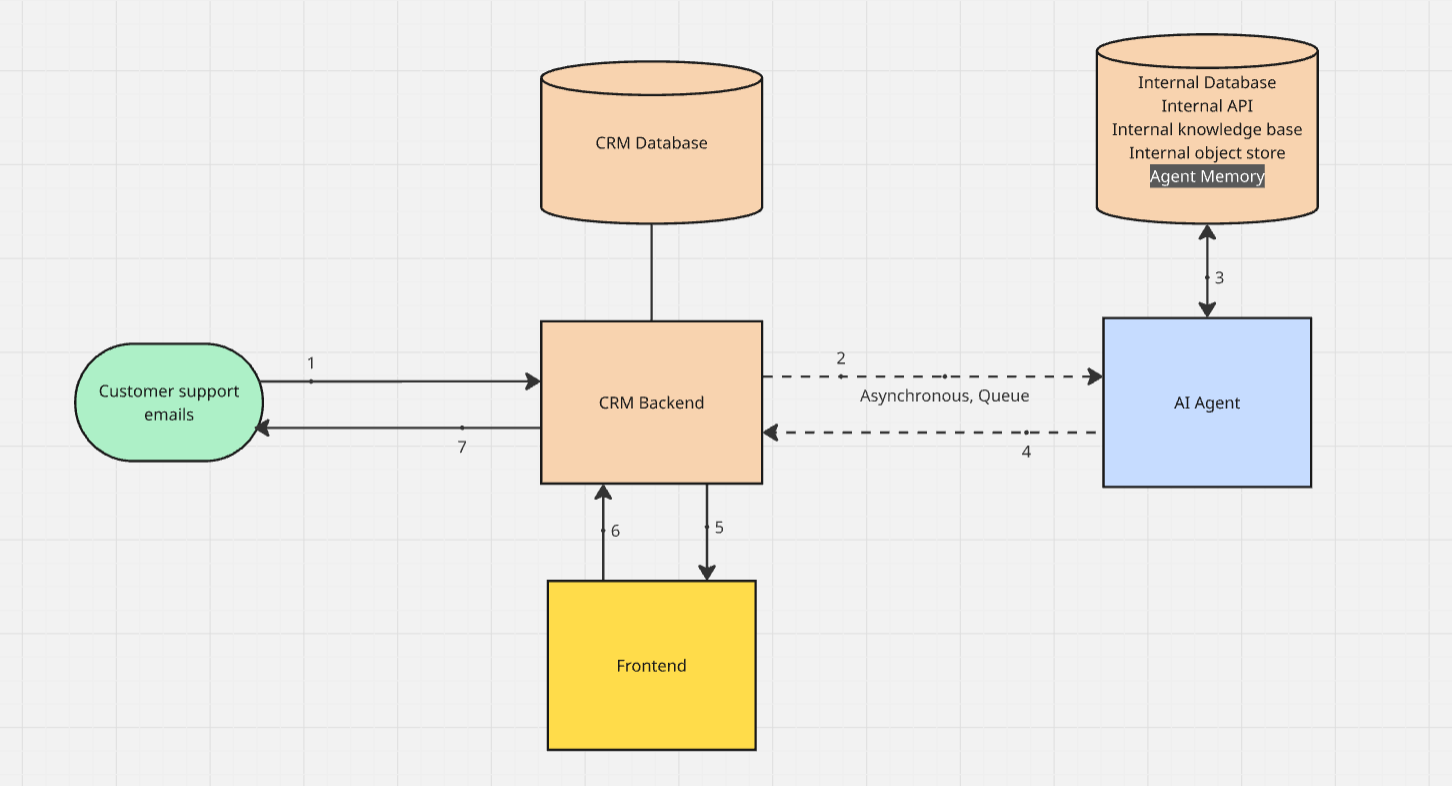
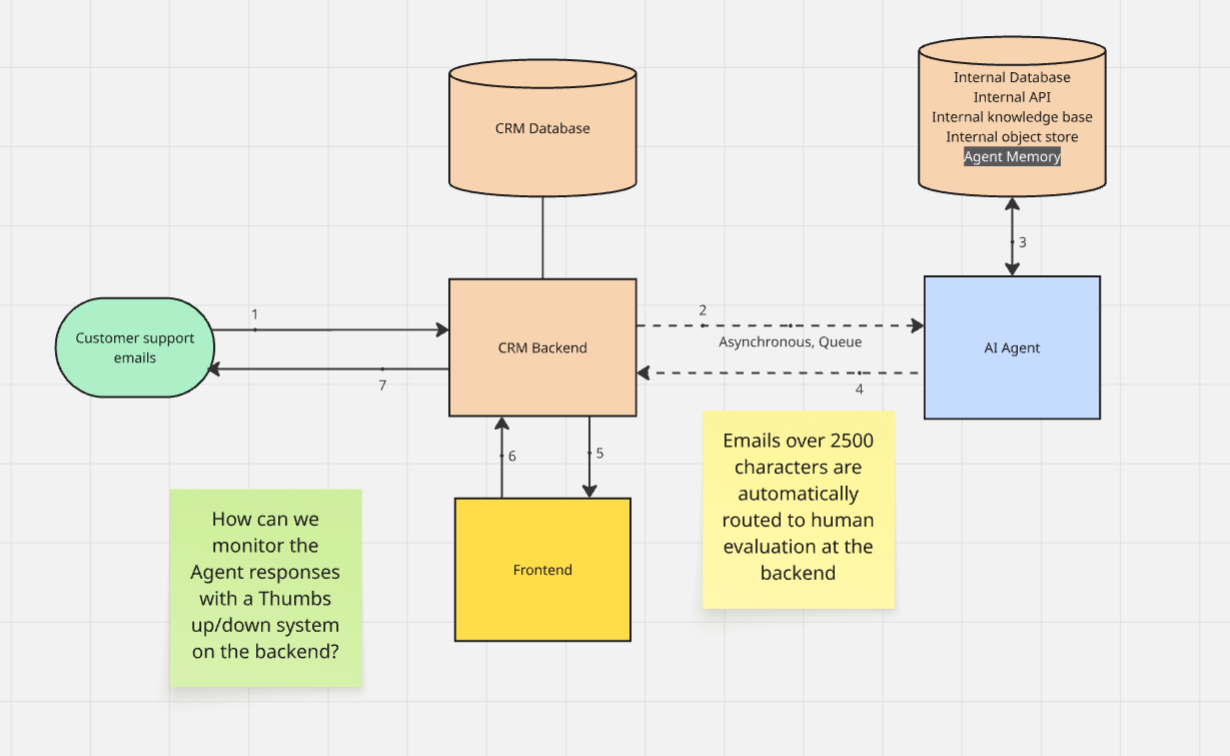
Updated documentation: Workflow, secutity, observability, tech frameworks

Changed region(s): [[0.0309, 0.0304, 0.9268, 0.9735], [0.1236, 0.6389, 0.3089, 0.9127]]

diff --git a/agent/app/agent_entrypoint.py b/agent/app/agent_entrypoint.py
@@ -175,7 +175,7 @@ if __name__ == "__main__":
 
     num = 4000
 
-    eval_output = invoke_agent(num, "Michael", num, product_availability_email, job_id)
+    eval_output = invoke_agent_langfuse(num, "Michael", num, product_availability_email, job_id)
 
     print('==========================================')
     print(eval_output)

diff --git a/README.md b/README.md
@@ -1,34 +1,119 @@
 # **CRM-Mail-Agent**
-A fullstack agent system for an athletic footwear Ecommerce business that responds to emails and takes appropriate actions with human-in-the-loop and agent memory and a robust agent evaluation framework. Uses Langfuse for monitoring.
+## Introduction
+A fullstack agent system for an athletic footwear Ecommerce business that responds to emails and takes appropriate actions with *human-in-the-loop and agent memory* and a **robust agent evaluation framework** (details in Agent evaluation framwork.md). 
+
+The human staff member accesses the front-end and reviews the agent's repliy & actions while also providing the context (observations) the agent has gathered that justifies its response/actions (such as the observed data in the database). The human approves or edits the actions, and the system updates the agent's memory after approval. Langfuse is used for monitoring.
 
 - Fully integrated memory system with context compression that can respond to emails in context while reducing token cost
 - Answer product inquiries, recommend products, check stocks and incoming deliveries
 - Respond to late delivery complaints, check delivery histories, credit fee refunds, provide coupons for retention
-- HITL for all actions and responses, agent runs asynchronously in real-time
+- HITL for all actions and responses, agent runs asynchronously in real-time through a task queue
 - Data authorisation at the app level so no breach of data when responding to client
 
-## System diagram
+## System diagram (high level)
 ![System diagram](images/overallSystem.png "Optional title")
 
 1. Customer sends email to Customer Support
 2. CRM receives email, sends event to Agent
 3. Agent receives event, goes through entire Agent workflow involving data collection from internal systems
 4. Agent prepares response and sends it to CRM
-5. CRM displays email with a list of actions taken and contextual data gathered from internal systems to internal staff
-6. Staff reviews email draft, approves email
-7. CRM sends AI prepared email response to client
+5. CRM front-end displays **email with a list of actions to take and contextual data gathered from internal systems** to internal staff
+6. Staff reviews email draft and agent's actions, makes edits (optional), approves email and actions 
+7. CRM sends AI prepared email response to client and takes actions
 
 ## Agent memory system
 ![System diagram](images/memory.png "Optional title")
 
-This diagram shows how the agent's memory is updated and accessed at each stage of the email conversation between Customer service and the Customer. The memory stores summaries of emails so as to reduce LLM token input and save cost when memory is used.
+This diagram shows how the agent's memory is updated and accessed at each stage of the email conversation between Customer service and the Customer. The memory stores summaries of emails so as to reduce token ingestion/output and save on cost when memory is used.
 
 ## Agent workflow diagram
 ![System diagram](images/agentGraph.png "Optional title")
 
-## Python frameworks
-![System diagram](images/pythonLibraries.png "Optional title")
+### First workflow:
+1. Obtain conversation history from memory 
+2. Classify email by topic and urgency
+3. If multiple requests, urgent, or no reply needed route to "other" then "human escalation"
 
-### To do
-Database pooling https://magicstack.github.io/asyncpg/current/usage.html#connection-pools
+From the web application that customer use to send requests to the customer service backend, customers should only include 1 request per support case. Thus emails with multiple requests are edge cases and will be few in number - while an agent could handle multiple requests with multi-agent system this introduces a vast amount of complexity that will be difficult to evaluate
 
+### Product availability inquiry or product recommendation request:
+1. Create a SQL query based on the content of the email to filter results (size, color, brand, etc...), if suitable
+2. Query database. Match returned data to customer's request and identify product_ids
+3. Check stocks of these products, if empty, check incoming deliveries
+4. Write response to customer that these products are the closest match to what they are looking for and what their availability is (or when they will be available if no stocks)
+
+### Late delivery complaint:
+1. Identify the tracking number the customer is referring to, route to response generation requesting for number to be provided if not available
+2. Check each of the tracking numbers are open deliveries under the customer's id, if none found found, route to response generation saying that there is no such open delivery with the tracking number(s) provided
+3. If matched, calculate the numbers of days late/not late, credit devliery fee refunds based on number of days late. If delivery is late and there was a late delivery in the last 60 days of this customer, provide coupon for expedited delivery for customer to use at the next order.
+4. Write response to customer detailing the status of each open delivery's tracking number and the actions taken for that delivery
+
+Final step:
+Send Case ID, email response, email response summary, context, and actions to backend for Human-in-the-loop evaluation.
+
+## Security
+First workflow:
+- Unclear/urgent/mixed-request (edge cases)/no-reply-needed emails are routed to human for evaluation (refer to prompt in email_agent.py)
+- Emails over 2500 charaters are not sent to the agent and handled manually at the backend. A customer might send an email with hundreds of identifiers or descriptions to extract data or cause system overload
+- Emails with repeated >3 request within the same case (same case_id) are routed to human evaluation because >3 similar requests in an email conversation means the agent is not effectively handling the customer service request
+
+Product recummendation/availability workflow:
+- System returns a maximum of 500 database results (adjustable) in case a customer is attempting a data leak attack to obtain inventory of all items (e,g,: "I want to find out about the available stocks of all your shoes"). Repeated requests are flagged by the agent
+
+Late delivery complaint workflow:
+- Database read results are filtered on the customer's ID at the application level so LLM will never see data that does not belong to the client attached to the case it is handling to prevent data leakage or customer attacks
+- 
+
+## Observability and diagnosing
+![System diagram](images/Langfuse.png "Optional title")
+LangFuse has built-in support for the LangChain ecosystem so integration is easy as pie. Each LangGraph call is monitored by Langfuse at the Trace/Session/User level and can be used for further analysis.
+Trace data:
+- Nodes traversed in graph 
+- State input and output
+- Token count
+- Attempt number
+- Overall latency
+- Timestamp
+- Cost/tokens/latency/prompt of each API call
+
+Does not trace:
+- Terminal output at each Run of LangGraph
+
+Identifier data captured at each trace:
+- Agent job ID
+- Case ID
+- Customer ID
+- Additional metadata
+
+## Error handling 
+
+Add diagram.
+Error handling occurs at FastAPI, Celery, Langgraph. 
+
+Retries are handled at Celery/LangGraph. In the event a job run fails completely, the error messages are reflected in the system logs, LangFuse (partially), and the status/description of the failed job is sent back to the backend.
+
+FastAPI sends back apprioriate HTTP codes to indicate errors.
+
+## Tech framework of agent streaming
+This Agent is a streaming system that runs asynchronously. It includes a task queue for rate limiting to prevent system overload, connection pooling to prevent database connection bottleneck/errors, and the message broker is Redis but we are switching to Kafka.
+
+Connection pooling is at the celery worker level, so all the tasks run by the same worker share the connection pool. Job ID is created at the Rest API endpoint and its is is sent as a response to the backend with HTTP code 202.
+
+### In the first design we use:
+- Celery, FastAPI, Redis as the broker
+
+![System diagram](images/tech1.png "Optional title")
+
+### In the improved design we use:
+- Celery, Kafka
+
+This is because Kafka has less points of failure as it handles message transmission and endpoints, uses TCP instead of HTTP, and buffers in disk instead of in memory like Redis which is prone to overload under system stress.
+
+![System diagram](images/tech2.png "Optional title")
+
+# **To do list**
+- Send update request to delivery team on "Late delivery complaint" workflow
+Create a more graceful workflow for multiple requests (multi-agent system), but requires robust evaluation.
+- Implement terminal output log storage (possibly with ELK stack or AWS cloudwatch) as Langfuse does not trace the full terminal output which is instrumental in debugging errors
+- Move LangFuse callback handler instantiation to the Celery Entrypoint so that the callback handler is reused at the worker level, currently at agent_entrypoint.py. Until it is, Langfuse tracing is unsuitable for production
+- Add email categorisation data to LangFuse metadata

diff --git a/Event queue with Redis Celery.md b/Event queue with Redis Celery.md
@@ -11,13 +11,17 @@ Why Redis is the choice of broker (works well for rapid transport of small messa
 https://docs.celeryq.dev/en/stable/getting-started/backends-and-brokers/index.html#redis
 
 # Quick use
-Run celery worker server.
-
+## Run celery worker server.
 celery -A agent_queue_tasks worker --loglevel=info --pool=threads (single thread)
+
 celery -A agent_queue_tasks worker --loglevel=info --pool=threads (multi-thread)
 
 python agent_queue_tasks_worker
 
+## Run multiple workers
+celery -A proj worker --loglevel=INFO --concurrency=10 -n worker1@%h
+
+celery -A proj worker --loglevel=INFO --concurrency=10 -n worker2@%h
 
 First steps: https://docs.celeryq.dev/en/stable/getting-started/first-steps-with-celery.html
 
@@ -32,7 +36,7 @@ https://docs.celeryq.dev/en/stable/userguide/monitoring.html#monitoring-redis-qu
 The number of tasks in a queue can be seen with redis-cli -h HOST -p PORT -n DATABASE_NUMBER llen QUEUE_NAME
 
 
-Further more I am using Redis commander which is a redis management tool written with node.js https://github.com/joeferner/redis-commander
+Furthermore I am using Redis commander which is a redis management tool written with node.js https://github.com/joeferner/redis-commander
 
 # Routing 
 Options for routing tasks to different queues, adding queues to the celery app, and specifying workers to confume from specific queues.
